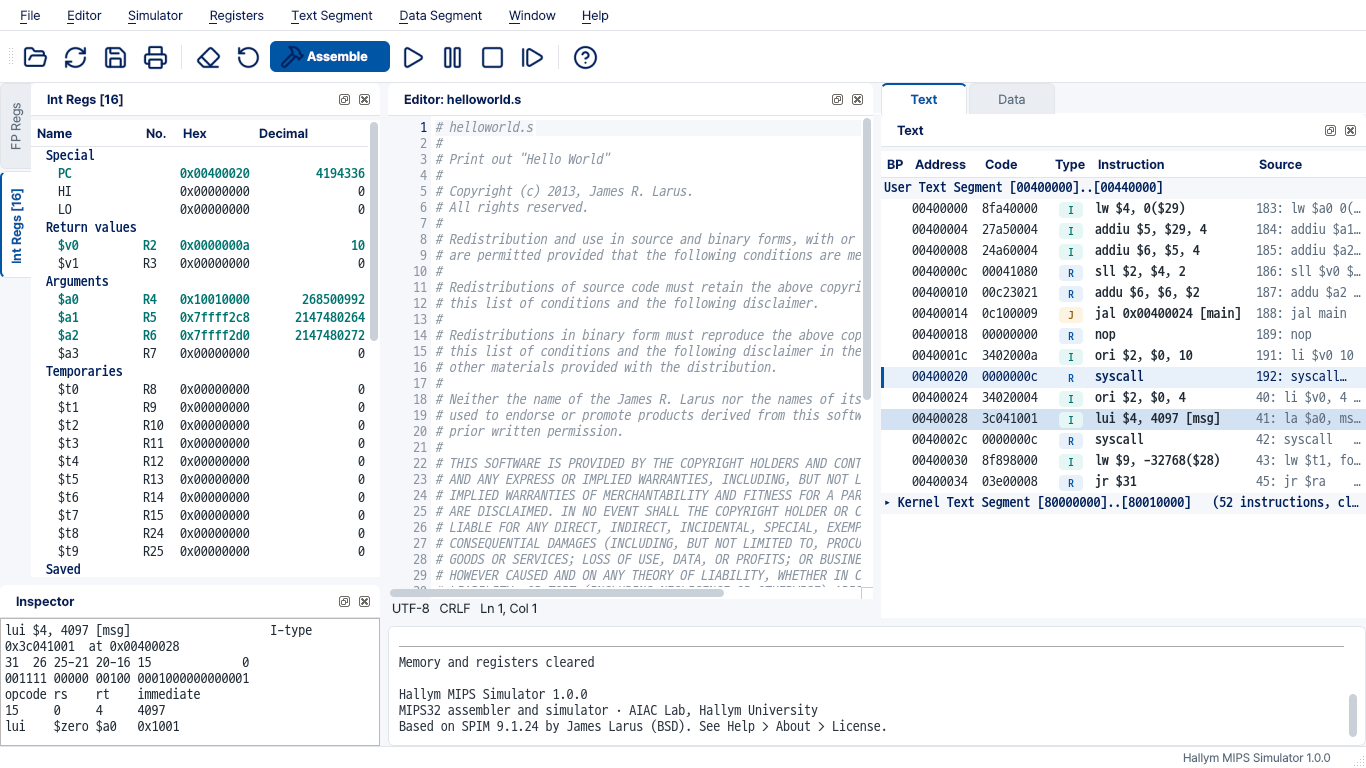
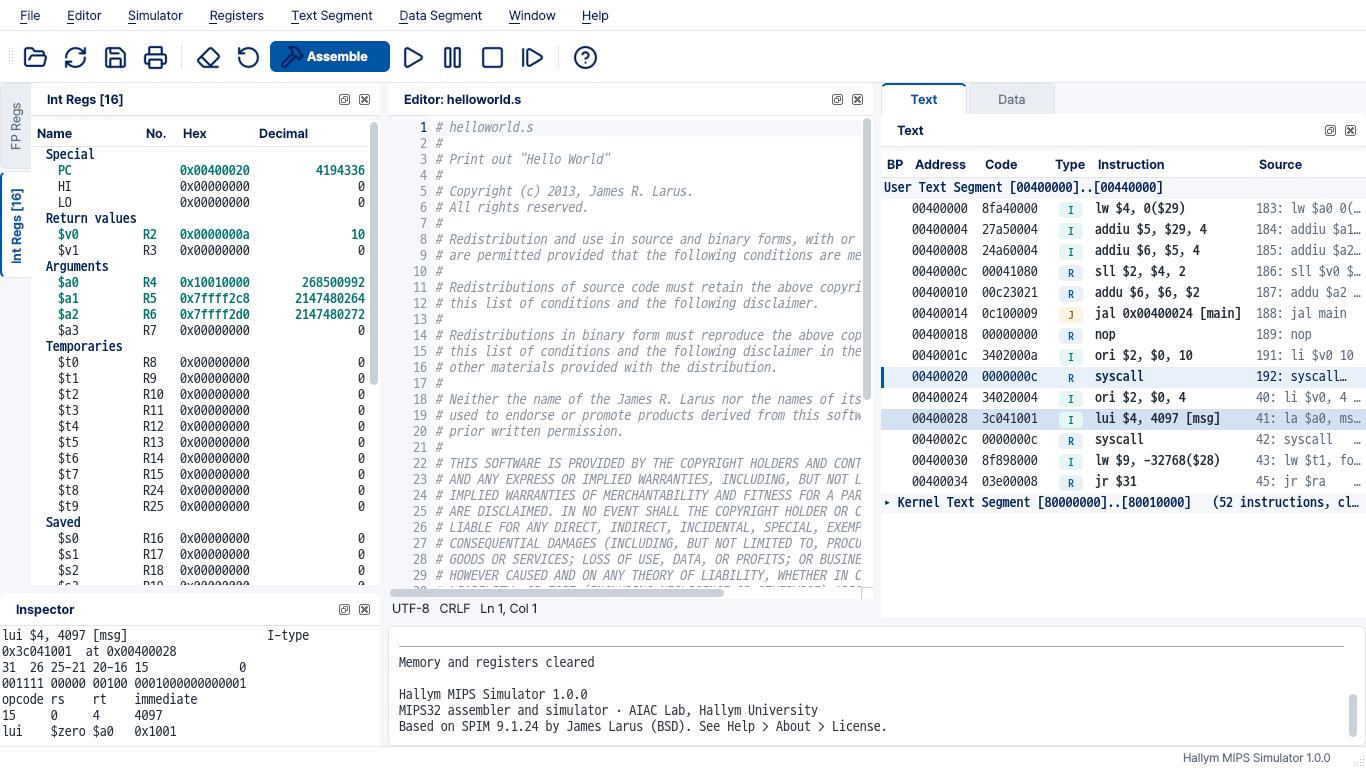
[H2] message pane drops the core's program-name prefix; 16 px rows fit every register group
An assembler error is the one core message carrying a program-name prefix
(CPU/parser.y:2952, "spim: (parser) ... on line N of file F").
SpimView::WriteOutput() removes that word where the pane draws it and keeps
the "(parser)" tag, which says which stage reported the error.  The string
itself is untouched, so the editor's error list parses it as before
(check-editor.sh passes) and Save Log File, which never writes this pane,
is unaffected: only the two message-pane goldens changed, every *-log
golden is byte-identical.

Rows are 16 px, the natural line height of the bundled code font.  Taking
eight pixels back from the inspector (text margin 4 -> 2 px, no inner
frame; the dock already draws the card border) gives the register dock
814 px, which is enough for all 47 rows -- Special through CP0 -- with the
inspector open.  The delegate never goes below the glyph height, so
descenders are not clipped (docs/design/captures).

diff --git a/QtSpim/edu/edu_inspector.cpp b/QtSpim/edu/edu_inspector.cpp
@@ -43,6 +43,10 @@ EduInspector::EduInspector(QWidget* parent)
   view_->setHorizontalScrollBarPolicy(Qt::ScrollBarAlwaysOff);
   view_->setSizePolicy(QSizePolicy::Preferred, QSizePolicy::Expanding);
   view_->setFrameStyle(QFrame::NoFrame);  // body_ draws the one frame
+  // Two pixels of text margin instead of Qt's four: the dock is the tightest
+  // thing on screen, and every pixel here is a register row the list above
+  // loses (docs/ARCHITECTURE.md 12, 54).
+  view_->document()->setDocumentMargin(2);
 
   // Prose (the branch note) reads badly in a fixed-pitch face at 44
   // columns; it gets the application's proportional font and wraps at
@@ -54,7 +58,8 @@ EduInspector::EduInspector(QWidget* parent)
   note_->setContentsMargins(4, 0, 4, 3);
   note_->hide();
 
-  body_->setFrameStyle(QFrame::StyledPanel | QFrame::Sunken);
+  // No inner frame: the dock already draws the card's border (theme/light.qss).
+  body_->setFrameStyle(QFrame::NoFrame);
   body_->setAutoFillBackground(true);
   body_->setBackgroundRole(QPalette::Base);
   body_->setSizePolicy(QSizePolicy::Preferred, QSizePolicy::Preferred);

diff --git a/QtSpim/spimview.cpp b/QtSpim/spimview.cpp
@@ -265,6 +265,18 @@ void SpimView::SaveStateAndExit(int val) {
 }
 
 QString SpimView::WriteOutput(QString message) {
+  // EDU: the core prefixes an assembler error with the name of the program
+  // it was written for ("spim: (parser) syntax error on line ...",
+  // CPU/parser.y).  Strip that one word where the pane draws it; the
+  // message itself is untouched, so the editor's error list still parses
+  // the original format (edu/core/edu_asm_errors.h) and Save Log File,
+  // which never writes this pane, is unaffected.  The "(parser)" tag stays:
+  // it says which stage reported the error.
+  if (message.startsWith("spim: ")) {
+    message.remove(0, 6);
+  }
+  message.replace("\nspim: ", "\n");
+
   if (message.endsWith("\n")) {
     message.chop(1);  // Appending adds a <br>, so avoid doubling last newline
   }

diff --git a/QtSpim/edu/theme/tokens.h b/QtSpim/edu/theme/tokens.h
@@ -72,7 +72,7 @@ const int kSpace1 = 4;
 const int kSpace2 = 8;
 const int kSpace3 = 12;
 const int kSpace4 = 16;
-const int kRowHeight = 18;       // code tables
+const int kRowHeight = 16;       // code tables
 const int kBadgeRadius = 4;
 const int kBadgeHeight = 16;
 const int kPcBarWidth = 3;       // left bar of the PC row

diff --git a/docs/ARCHITECTURE.md b/docs/ARCHITECTURE.md
@@ -774,7 +774,7 @@ DisplayIntRegisters()  QtSpim/regwin.cpp
 | 51 | **이름**: 표시명 "Hallym MIPS Simulator", 실행 파일·설정 저장소 `HallymMIPS`/`HallymMIPS`, 헬프 컬렉션 `help/HallymMIPS.qhc`, MSI ProductName "Hallym MIPS Simulator"·새 UpgradeCode·설치 폴더 `Program Files\Hallym MIPS Simulator`. 화면·문서·파일명에 QtSpim/Edu 표기 없음(About → License 탭, LICENSE, 이 문서의 원본 참조 제외) | "QtSpim", `LarusStone`/`QtSpim` | 한림대학교 수업용 파생판. QtSpim-Edu 1.0.1의 설정 저장소와도 다르므로 셋을 나란히 설치할 수 있다 | H2 · `edu/edu_version.h`, `QtSpim.pro`, `Setup/HallymMIPS_Win_Deployment` |
 | 52 | **테마**: 색·글꼴·간격은 전부 `edu/theme/tokens.h`(`docs/design/tokens.md`가 근거)에서 온다. 앱 스타일시트 `edu/theme/light.qss`는 `@name@` 자리를 토큰으로 채워 적용(`edu::theme::styleSheet()`), UI 글꼴 Pretendard 13px는 `QApplication::setFont`, 코드 글꼴 D2Coding 10pt는 설정 기본값(`state.cpp`)이라 Settings 대화상자로 바꿀 수 있다. 위젯이 직접 그리는 색(타입 배지, PC 행 틴트+왼쪽 3px 막대, 선택 행 틴트+진남 글자, pseudo 묶음 띠, 변경값 SemiBold #00736F, 에디터 문법·현재 줄·여백, Data 마커, 에러 목록)도 같은 토큰. 툴바 아이콘은 Lucide SVG를 `tools/make-theme-icons.py`가 토큰 색으로 PNG 렌더한 것(`edu::theme::toolIcon`), 원본 비트맵(`windows_images.qrc`)은 빌드에서 뺐다 | Courier 10pt, 시스템 스타일, 원본 아이콘 | tokens.md. QSS `font-family`는 `setFont()`를 다시 부르는 위젯(표·에디터·인스펙터)에 먹지 않아 코드 글꼴은 `applyPanelFont()` 경로 | H2 · `edu/theme/`, `edu_text_view.cpp`, `edu_register_model.cpp`, `edu_data_model.cpp`, `edu_code_editor.cpp` |
 | 53 | 메시지 로그의 **표시** 글꼴·색: `WriteOutput()`의 HTML `font-family:Courier` → 토큰 코드 글꼴, 시작 배너의 초록 → `kTextLog`, `Error()`의 메시지는 `kError`. 저장 로그(`toPlainText`)는 바이트 동일 | Courier, 초록/검정 | tokens.md 5 | H2 · `spimview.cpp`(`// EDU:`), `menu.cpp` `SetOutputColor` |
-| 54 | 코드 표 행 높이 **18px**(레지스터 트리·Text·Data), 도크 제목 아래 4px 여백(`eduInsetDockContent`, Text/Data 상자 여백). 1920×1080에서 레지스터 47행 중 41행이 보이고 Reserved 끝·CP0는 스크롤(인스펙터를 닫으면 47행 전부). 왼쪽 열의 세로 975px 중 레지스터 표에 돌아오는 것은 742px이라 47행을 다 넣으려면 행이 15px여야 한다 | 15~16px(3단계: 47행이 1080에 들어가게) | 토큰. H1 결정 ④(스크롤 허용) | H2 · `edu_register_view.cpp` `CompactRowDelegate`, `edu_text_view.cpp`, `edu_data_view.cpp` |
+| 54 | 코드 표 행 높이 **16px**(레지스터 트리·Text·Data), 도크 제목 아래 4px 여백(`eduInsetDockContent`, Text/Data 상자 여백). 1920×1080에서 레지스터 47행 중 41행이 보이고 Reserved 끝·CP0는 스크롤(인스펙터를 닫으면 47행 전부). 왼쪽 열의 세로 975px 중 레지스터 표에 돌아오는 것은 742px이라 47행을 다 넣으려면 행이 15px여야 한다 | 15~16px(3단계: 47행이 1080에 들어가게) | 토큰. H1 결정 ④(스크롤 허용) | H2 · `edu_register_view.cpp` `CompactRowDelegate`, `edu_text_view.cpp`, `edu_data_view.cpp` |
 | 55 | 인스펙터의 고정폭 검사(`fixedPitchVersionOf`)는 **동봉 코드 글꼴이면 건너뛴다** | (3단계에서 추가한 검사) | fontconfig가 D2Coding을 dual spacing으로 분류해 Linux에서 `QFontInfo::fixedPitch()`가 false. 글꼴 자체는 고정폭 선언(post, PANOSE) | H2 · `edu_inspector.cpp` |
 | 56 | **스플래시**: 시작 시 시그니처(국영문 좌우조합) 카드를 1.2초 또는 클릭까지. 스크립트 캡처 모드에서는 띄우지 않는다(`EduDevtools::wantsCaptureMode`). **About**: 엠블럼 A + 로고타입 + 이름·버전 + License 탭(원본 고지·Qt LGPL·OFL·ISC). 앱 아이콘은 심볼 기본형 16/32/48/256 | 없음 / `QMessageBox` | 브랜딩 | H2 · `edu/theme/edu_theme.cpp` `showSplash`, `edu/edu_about.cpp`, `edu/theme/brand/` |
 | 57 | 툴바: Assemble이 아이콘+글자 주요 버튼(`QToolButton#EduAssembleButton`, 2945 채움), 나머지 아이콘만. 구분선으로 파일 / 실행 / 도움말 세 묶음 | 6묶음 | tokens.md | H2 · `spimview.ui` toolBar, `edu_editor_glue.cpp` |
@@ -783,7 +783,8 @@ DisplayIntRegisters()  QtSpim/regwin.cpp
 | 60 | **Help 메뉴**: `User Guide`(= 툴바 `?`)가 동봉된 학생 안내문(zip의 `HallymMIPS-GUIDE-ko.pdf`, 개발 트리에서는 `docs/GUIDE-ko.md`)을 열고, 원본 SPIM 문서는 `MIPS Reference`로 따로 둔다(툴팁·헬프 창 제목에 원본 문서임을 밝힌다). 헬프 컬렉션에서 QtSpim GUI 설명서(`manual.html`과 그 스크린샷 3장)를 빼고 `HP_AppA.html`(어셈블러·링커·명령어 부록)만 남겼다. 헬프·assistant 탐색 경로는 실행 파일 폴더만 본다 | `View Help` 하나가 QtSpim 설명서를 열고, 표준 QtSpim 설치 폴더까지 찾았다 | 다른 프로그램의 화면을 설명하는 문서였고, 남의 설치 폴더에 기대지 않는다 | H2 · `edu_spimview_glue.cpp` `eduSetupHelpMenu`/`eduShowUserGuide`, `menu.cpp` `help_ViewHelp`, `help/HallymMIPS.qh*` |
 | 61 | 설정 저장소의 조직명은 `HallymMIPS`, **도메인 문자열은 설정하지 않는다**(`setOrganizationDomain` 호출 삭제). Linux `~/.config/HallymMIPS/HallymMIPS.conf`, Windows `HKCU\Software\HallymMIPS\HallymMIPS` | `LarusStone`/`QtSpim` | 도메인은 macOS에서만 경로에 쓰이고, 학교 도메인을 제품 식별자로 쓰지 않는다 | H2 · `edu_version.h`, `main.cpp` |
 | 62 | 내장 예외 핸들러를 뜻하는 표시값이 `<<Built-in Exception Handler>>` | `<<SPIM Exception Handler>>` | Settings 대화상자에 그대로 보인다. 값의 뜻은 같다(파일 이름이 아니라 sentinel) | H2 · `spimview.cpp` |
-| 63 | 화면에 남은 원본 이름: 코어가 내는 어셈블 에러 `spim: (parser) … on line N of file …`(로그 창). 에러 목록은 이 접두사를 떼고 보여 준다 | 같음 | 코어 출력이라 `CPU/` 수정 없이는 바꿀 수 없고, `edu/core/edu_asm_errors.cpp`의 파서와 로그 골든이 이 형식을 전제한다 | H2 · 미변경(기록용) |
+| 63 | 어셈블 에러를 **메시지 창에 그릴 때만** `spim: ` 접두사를 뗀다(`(parser)` 분류 표기는 남긴다). 코어가 만드는 문자열(`CPU/parser.y:2952`)과 그것을 받는 `SpimView::Error()`의 인자는 그대로라, 에디터 에러 목록의 파서(`edu/core/edu_asm_errors.cpp`)는 원래 형식을 계속 읽는다. 이 접두사가 붙는 코어 메시지는 이 한 곳뿐이다(`run_error()`에는 없음) | `spim: (parser) syntax error on line …` | 켜자마자 보이는 자리에 남은 마지막 다른 제품 이름. 메시지 창은 Save Log File·Print에 들어가지 않으므로(59번) 화면 표시만 바뀐다 — 메시지 창 골든 2개만 다시 떴고 `*-log` 골든은 그대로 | H2 · `spimview.cpp` `WriteOutput` |
+| 64 | 인스펙터: 문서 여백 4→2px, 안쪽 프레임 제거(도크가 카드 테두리를 그린다) | Qt 기본 4px + StyledPanel\|Sunken | 54번의 47행을 위해 8px | H2 · `edu_inspector.cpp` |
 
 **다르지 않은 것** (확인된 것만): 시뮬레이터 코어 전체(`CPU/` 바이트 동일, `tools/regress.sh` 1·2·3번),
 Save Log File의 Int Regs·Text·Data 출력(4번 — 17·18번의 경우 포함해 골든과 바이트 동일), 브레이크포인트 다이얼로그(Continue / Single Step / Abort),
